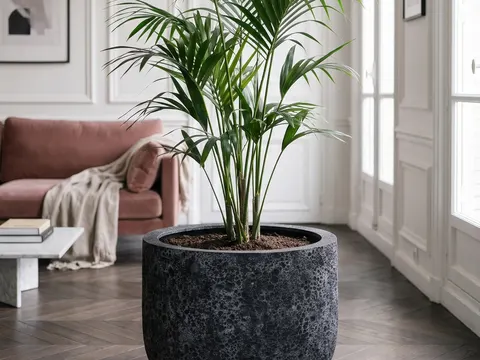
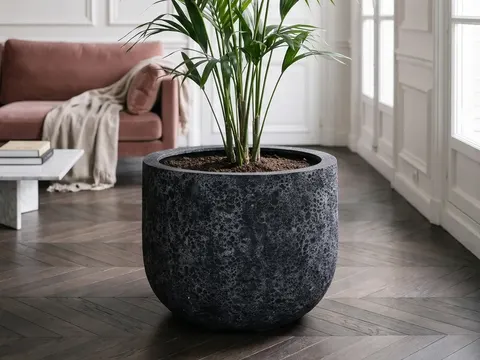
Feinschliff: Überschriften, Qualitätszeile, Atelier-Vorschauen
- "Acht Kollektionen" und "Ihr Gefäß – Ihr Raum" zentriert, gleicher Abstand oben/unten
- Verkaufsargumente aus dem Manifest: Qualitätszeile in der Manufaktur (mit Mittelpunkten),
  kostenlose Lieferung unter dem Shop-Button im Atelier; Länderzeile entfernt
- XXL ohne "Projekt anfragen", Lupe ohne Einblendung
- Szenen-Vorschaubilder zeigen den ganzen Topf

diff --git a/index.html b/index.html
@@ -19,8 +19,8 @@
 <link rel="apple-touch-icon" href="assets/brand/favicon-180.png">
 <link rel="preload" href="assets/fonts/jost-latin.woff2" as="font" type="font/woff2" crossorigin>
 <link rel="preload" href="assets/fonts/instrument-sans-latin.woff2" as="font" type="font/woff2" crossorigin>
-<link rel="stylesheet" href="css/fonts.css?v=20261111h">
-<link rel="stylesheet" href="css/style.css?v=20261111h">
+<link rel="stylesheet" href="css/fonts.css?v=20261112d">
+<link rel="stylesheet" href="css/style.css?v=20261112d">
 </head>
 <body>
 <header class="nav" id="nav">
@@ -66,10 +66,10 @@
       <h1>Gefäße,<br>die bleiben.</h1>
       <a class="btn" href="#kollektionen">Kollektionen</a>
     </div>
-    <figure class="hp-media" id="heroMedia" data-video="assets/hero.mp4?v=20261111h" data-video-m="assets/hero_m.mp4?v=20261111h">
+    <figure class="hp-media" id="heroMedia" data-video="assets/hero.mp4?v=20261112d" data-video-m="assets/hero_m.mp4?v=20261112d">
       <picture>
-        <source media="(max-width: 700px)" srcset="assets/hero_m.webp?v=20261111h">
-        <img src="assets/hero-wide-1600.webp?v=20261111h" srcset="assets/hero-wide-1600.webp?v=20261111h 1600w, assets/hero-wide.webp?v=20261111h 2752w" sizes="100vw" alt="ESCHBACH Lava U Pot mit Olivenbaum auf einer Terrasse am Pool" width="2752" height="1536" fetchpriority="high">
+        <source media="(max-width: 700px)" srcset="assets/hero_m.webp?v=20261112d">
+        <img src="assets/hero-wide-1600.webp?v=20261112d" srcset="assets/hero-wide-1600.webp?v=20261112d 1600w, assets/hero-wide.webp?v=20261112d 2752w" sizes="100vw" alt="ESCHBACH Lava U Pot mit Olivenbaum auf einer Terrasse am Pool" width="2752" height="1536" fetchpriority="high">
       </picture>
     </figure>
   </section>
@@ -77,19 +77,13 @@
   <section class="manifest">
     <div class="wrap">
       <p class="big" id="manifest">Jedes Gefäß entsteht von Hand. Leicht, frostfest, gemacht für viele Winter.</p>
-      <ul class="usp" aria-label="Qualitätsmerkmale">
-        <li><a href="https://eschbach-design.com/pages/garantiebedingungen" target="_blank" rel="noopener">10 Jahre Frostfest-Garantie</a></li>
-        <li>ESCHBACH LITE® Fiberglas</li>
-        <li>UV-stabil</li>
-        <li>Kostenlose Lieferung in Deutschland</li>
-      </ul>
     </div>
   </section>
 
   <section class="colls" id="kollektionen">
     <div class="wrap">
       <div class="colls-head">
-        <h2>Acht Kollektionen.</h2>
+        <h2>Acht Kollektionen</h2>
       </div>
       <div class="cgrid" id="cgrid"><div class="cstage" id="cstage"></div></div>
     </div>
@@ -98,7 +92,7 @@
   <section class="atelier" id="atelier">
     <div class="wrap">
       <div class="at-head">
-        <h2>Ihr Gefäß.<br>Ihr Raum.</h2>
+        <h2>Ihr Gefäß – Ihr Raum</h2>
       </div>
       <div class="at-grid">
         <div class="at-stage">
@@ -132,6 +126,7 @@
               <div><dt>Preis</dt><dd id="dPrice">1.070 €</dd></div>
             </dl>
             <div><a class="btn solid" id="dLink" href="https://eschbach-design.com/products/pflanzkuebel-eschbach-u-pot-lava-collection-volcanic-black" target="_blank" rel="noopener">Im Shop ansehen <svg viewBox="0 0 16 16" fill="none" stroke="currentColor" stroke-width="1.5"><path d="M2 8h11M9 4l4 4-4 4"/></svg></a></div>
+            <p class="ship">Kostenlose Lieferung in Deutschland</p>
           </div>
         </div>
       </div>
@@ -151,7 +146,6 @@
           <div class="surface" id="surface">
             <canvas class="flat" id="flat" width="960" height="540" aria-label="Oberflächenstruktur im Detail"></canvas>
             <div class="lens" id="lens"><canvas id="lensC" width="400" height="400"></canvas></div>
-            <span class="lens-tag" id="lensTag">Lupe ×3 · Loft</span>
           </div>
         </div>
       </div>
@@ -163,7 +157,6 @@
       <div class="xxl-copy">
         <h2>Bis 140 cm.</h2>
         <p class="lead">Großgefäße für Plätze, Lobbys und Dachterrassen.</p>
-        <div><a class="btn" href="https://eschbach-design.com/pages/gewerbekunden" target="_blank" rel="noopener">Projekt anfragen <svg viewBox="0 0 16 16" fill="none" stroke="currentColor" stroke-width="1.5"><path d="M2 8h11M9 4l4 4-4 4"/></svg></a></div>
       </div>
       <figure class="xxl-photo">
         <img src="assets/xxl.webp" alt="Große ESCHBACH Pflanzschale mit japanischem Ahorn auf einer Terrasse" width="800" height="993" decoding="async" loading="lazy">
@@ -180,7 +173,7 @@
           <p class="lead">Eigene Produktion. Händler weltweit.</p>
         </div>
       </div>
-      <div class="markets"><span>Europa</span><span>Nordamerika</span><span>Japan</span><span>Südafrika</span><span>Australien</span></div>
+      <ul class="quality" aria-label="Qualitätsmerkmale"><li>10 Jahre Frostfest-Garantie</li><li>ESCHBACH LITE® Fiberglas</li><li>UV-stabil</li></ul>
     </div>
   </section>
 </main>
@@ -223,6 +216,6 @@
 <script src="assets/vendor/lenis.min.js"></script>
 <script src="assets/vendor/gsap.min.js"></script>
 <script src="assets/vendor/ScrollTrigger.min.js"></script>
-<script src="js/app.js?v=20261111h"></script>
+<script src="js/app.js?v=20261112d"></script>
 </body>
 </html>

diff --git a/js/app.js b/js/app.js
@@ -679,7 +679,7 @@ const LAVA = (() => {
     dPrice.previousElementSibling.textContent = 'Preis'; dPrice.textContent = form.price;
     dLink.href = v.url || m.url; dLink.firstChild.textContent = 'Im Shop ansehen ';
     // scene + form previews show the currently selected form / colour
-    list.querySelectorAll('.scene-btn').forEach(b => { b.style.backgroundImage = `url("assets/lava/${b.dataset.id}/thumb__${form.id}__${colour.id}.webp")`; });
+    list.querySelectorAll('.scene-btn').forEach(b => { b.style.backgroundImage = `url("assets/lava/${b.dataset.id}/thumb__${form.id}__${colour.id}.webp?v=3")`; });
     formsEl.querySelectorAll('.form-btn img').forEach((img, i) => { const t = (m.forms[i].variants[colour.id] || {}).thumb; if (t && !img.src.endsWith(t)) img.src = t; });
     if (window.gsap && !RM) gsap.fromTo(dName, {y:14, opacity:.4}, {y:0, opacity:1, duration:.6, ease:'power3.out'});
   }
@@ -690,7 +690,7 @@ const LAVA = (() => {
     list.innerHTML = '';
     m.scenes.forEach(s => {
       const b = document.createElement('button'); b.type = 'button'; b.className = 'scene-btn'; b.dataset.id = s.id;
-      b.style.backgroundImage = `url("${s.thumb}")`; b.innerHTML = `<span>${s.name}</span>`;
+      b.style.backgroundImage = `url("${s.thumb}?v=3")`; b.innerHTML = `<span>${s.name}</span>`;
       b.addEventListener('click', () => { scene = s; press(list, '.scene-btn', b); draw(); }); list.appendChild(b);
     });
     formsEl.innerHTML = '';
@@ -764,7 +764,7 @@ if (cstage){
 
 /* ---------------- Material loupe ---------------- */
 const tabsEl = document.getElementById('tabs'), flat = document.getElementById('flat'), fctx = flat.getContext('2d');
-const lensC = document.getElementById('lensC'), lctx = lensC.getContext('2d'), lens = document.getElementById('lens'), surf = document.getElementById('surface'), lensTag = document.getElementById('lensTag');
+const lensC = document.getElementById('lensC'), lctx = lensC.getContext('2d'), lens = document.getElementById('lens'), surf = document.getElementById('surface');
 const matChoices = [['loft',2],['terra',1],['antique',1],['lava',0],['granite',0],['vertical',0]];
 let lensPos = {x:.62, y:.48};
 // Blender surface macros (assets/textures/<id>.webp); procedural texture stays as fallback.
@@ -772,7 +772,7 @@ const texImgs = {}; let flatSel = '';
 function renderFlat(cid, ci){
   const coll0 = COLL.find(c=>c.id===cid);
   const done = img => { flat.width = img.naturalWidth; flat.height = img.naturalHeight; fctx.drawImage(img, 0, 0);
-    drawLens(); lensTag.textContent = `Lupe ×3 · ${coll0.name} · ${coll0.colors[ci][0]}`; };
+    drawLens(); };
   const cached = texImgs[cid];
   if (cached === false) { flatSel = cid; return renderFlatProcedural(cid, ci); }
   if (cached) { flatSel = cid; return done(cached); }
@@ -805,7 +805,6 @@ function renderFlatProcedural(cid, ci){
     }
   }
   fctx.putImageData(img,0,0); drawLens();
-  lensTag.textContent = `Lupe ×3 · ${coll.name} · ${coll.colors[ci][0]}`;
 }
 function drawLens(){
   const W = flat.width, H = flat.height, zoom = 3;
@@ -912,7 +911,7 @@ if (window.gsap && window.ScrollTrigger){
   const words = man.querySelectorAll('.w');
   ScrollTrigger.create({trigger:man, start:'top 78%', end:'bottom 45%', onUpdate:s => { const n = Math.round(s.progress*words.length); words.forEach((w,i) => w.classList.toggle('on', i < n)); }});
   if (!RM){
-    gsap.utils.toArray('.usp, .at-head, .colls-head, .mat-copy, .loupe-wrap, .xxl-copy, .scale, .since-copy, .markets, .f-top').forEach(el => {
+    gsap.utils.toArray('.at-head, .colls-head, .mat-copy, .loupe-wrap, .xxl-copy, .scale, .since-copy, .markets, .f-top').forEach(el => {
       gsap.from(el, {y:40, opacity:.35, duration:1.1, ease:'power3.out', scrollTrigger:{trigger:el, start:'top 88%'}});
     });
     // relay: only ever one image sprints. Image i waits (lagging just below the screen) until image i-1 has

diff --git a/css/style.css b/css/style.css
@@ -600,14 +600,6 @@ footer .f-col a,footer .sel{color:var(--fg)}
 @media (max-width:760px){.f-top{grid-template-columns:1fr 1fr}}
 
 /* ---- Feedback pass (2026-11-11) ---- */
-/* USP line under the manifest statement: quiet proof points instead of icons */
-.usp{list-style:none;margin:clamp(48px,7vh,80px) 0 0;padding:1.4rem 0 0;border-top:1px solid rgba(236,230,219,.14);
-  display:grid;grid-template-columns:repeat(4,minmax(0,1fr));gap:1rem 2rem;
-  font:500 .8125rem/1.4 var(--f-body);letter-spacing:.06em;text-transform:uppercase;color:var(--band-muted)}
-.usp a{color:var(--band-fg);text-decoration:none;border-bottom:1px solid rgba(236,230,219,.35);transition:border-color .3s}
-.usp a:hover{border-color:var(--band-fg)}
-@media (max-width:760px){.usp{grid-template-columns:repeat(2,minmax(0,1fr))}}
-
 /* hero video pause / play (WCAG 2.2.2) */
 .hp-pause{position:absolute;right:var(--gutr);bottom:clamp(24px,5vh,48px);z-index:3;width:40px;height:40px;border-radius:50%;
   display:grid;place-items:center;padding:0;cursor:pointer;color:#fff;background:rgba(20,18,16,.28);
@@ -646,3 +638,23 @@ footer .f-col a,footer .sel{color:var(--fg)}
 @media (max-width:960px){.nav .btn{display:inline-flex;margin-left:auto;padding:.62em 1.05em;font-size:.8125rem}.nav .menu-btn{margin-left:.4rem}}
 .f-top>div{min-width:0}
 .f-col a{overflow-wrap:anywhere}
+
+/* ---- 2026-11-12: headings above content are centred and sit exactly between section start and content
+   (same distance up and down = the section padding); lens tag removed ---- */
+.colls-head,.at-head{display:block;text-align:center;margin:0 0 var(--sec)}
+.colls-head h2,.at-head h2{margin-inline:auto}
+.cstage{margin-top:0}
+.at-grid.lava .scene-btn{background-position:center}
+
+/* quality facts (moved out of the manifest, 2026-11-12): same type as the market row, all items identical,
+   equal gaps (flex gap, not equal columns); one per line on phones. Free delivery sits under the shop button. */
+.quality{list-style:none;margin:0;padding:1.4rem 0 0;margin-top:1.4rem;border-top:1px solid var(--line);display:flex;flex-wrap:wrap;gap:.4rem 1.8rem}
+.quality li{font-family:var(--f-display);text-transform:uppercase;letter-spacing:.02em;font-size:clamp(1rem,1.9vw,1.6rem);color:var(--muted)}
+@media (max-width:700px){.quality{flex-direction:column}}
+.ship{margin:0;font-size:.8125rem;letter-spacing:.04em;text-transform:uppercase;color:var(--muted)}
+/* rows of facts separated by a middle dot (·), equal spacing on both sides of every dot */
+.markets,.quality{column-gap:0}
+.markets span:not(:last-child)::after,.quality li:not(:last-child)::after{content:"·";display:inline-block;margin:0 .75em;color:var(--muted)}
+@media (max-width:700px){.quality li::after{content:none!important}}
+/* market row removed (2026-11-12): the quality row takes its place and spacing */
+.quality{margin-top:clamp(40px,6vh,72px)}

diff --git a/tools/lava_publish.py b/tools/lava_publish.py
@@ -26,7 +26,7 @@ FORMS = [("u-pot", "U Pot", "D 90 × H 70 cm", "1.070 €"), ("long-balloon", "L
 COLOURS = [("volcanic-black", "Volcanic Black", "#2e2d2c"), ("antique-white", "Antique White", "#e4ddd0")]
 REF = ("u-pot", "volcanic-black")
 OUT_W, OUT_H, FOOT_Y = 1200, 1500, .88
-THUMB_BOX = (0, 300, 1200, 1200)
+THUMB_BOX = (0, 495, 1200, 1395)      # 4:3, full width, ends 75 px below the foot (y 1320): whole planter visible; y 300-1200 cut it off
 
 
 def pot_geometry(path):
